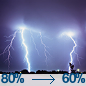
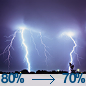
wire: 2026-10-16 RSA-1016-WIRE-124 + first sports/weather siblings

Changed region(s): [[0.7209, 0.8372, 0.814, 0.9767]]

diff --git a/wire.html b/wire.html
@@ -5,16 +5,16 @@
   <meta name="viewport" content="width=device-width, initial-scale=1.0">
   <script>(function(){try{var s=localStorage.getItem('usmc-theme')||localStorage.getItem('theme');if(s!=='light')document.documentElement.setAttribute('data-theme','dark');}catch(e){}})();</script>
   <title>RESOLUTE Wire — Curated News for Citizens | U.S.M.C. Ministries</title>
-  <meta name="description" content="National and technology reporting for Friday morning.">
+  <meta name="description" content="National and technology reporting for Friday evening.">
   <link rel="canonical" href="https://usmcmin.com/wire.html">
   <meta property="og:site_name" content="RESOLUTE Wire">
-  <meta property="og:title" content="USS Howard drilled its small-caliber guns in the Northern Pacific — RESOLUTE Wire">
-  <meta name="twitter:title" content="USS Howard drilled its small-caliber guns in the Northern Pacific — RESOLUTE Wire">
-  <meta property="og:description" content="National and technology reporting for Friday morning.">
+  <meta property="og:title" content="Theodore Roosevelt pulled into Yokosuka ahead of Keen Sword — RESOLUTE Wire">
+  <meta name="twitter:title" content="Theodore Roosevelt pulled into Yokosuka ahead of Keen Sword — RESOLUTE Wire">
+  <meta property="og:description" content="National and technology reporting for Friday evening.">
   <meta property="og:type" content="website">
   <meta property="og:url" content="https://usmcmin.com/wire.html">
-  <meta property="og:image" content="https://usmcmin.com/assets/og/wire-dvids-10024071-howard-m240-1200x630.jpg">
-  <meta name="twitter:image" content="https://usmcmin.com/assets/og/wire-dvids-10024071-howard-m240-1200x630.jpg">
+  <meta property="og:image" content="https://usmcmin.com/assets/og/wire-dvids-10023181-tr-yokosuka-1200x630.jpg">
+  <meta name="twitter:image" content="https://usmcmin.com/assets/og/wire-dvids-10023181-tr-yokosuka-1200x630.jpg">
   <meta property="og:image:width" content="1200">
   <meta property="og:image:height" content="630">
   <meta name="twitter:image:width" content="1200">
@@ -134,19 +134,19 @@
     </div>
     <header class="mast" id="top">
       <h1>RESOLUTE <em>Wire</em></h1>
-      <p class="dek">National and technology reporting for Friday morning.</p>
-      <div class="meta">Friday, October 16, 2026 · AM edition · Rush Sullivan</div>
+      <p class="dek">National and technology reporting for Friday evening.</p>
+      <div class="meta">Friday, October 16, 2026 · PM edition · Rush Sullivan</div>
     </header>
     <article class="hero">
       <div class="hero-media">
-        <img src="assets/wire/dvids-10024071-howard-m240-1000w.jpg" alt="">
-        <div class="hero-credit">Mass Communication Specialist 1st Class Matt Riggs · DVIDS 10024071 · Public domain · Chief Gunner&#x27;s Mate Dalton Daniel explains an M240 to the small-caliber action team on USS Howard (DDG 83) in the Northern Pacific, Oct. 14, 2026. Photo taken Oct. 13.</div>
+        <img src="assets/wire/dvids-10023181-tr-yokosuka-1000w.jpg" alt="">
+        <div class="hero-credit">Mass Communication Specialist 1st Class Hannah Fry · DVIDS 10023181 · Public domain · USS Theodore Roosevelt (CVN 71) pulls into Commander, Fleet Activities Yokosuka, Japan, Oct. 16, 2026. Photo taken Oct. 15.</div>
       </div>
       <div class="hero-body">
         <span class="chip">DVIDS</span>
-        <h2><a href="https://www.dvidshub.net/image/10024071/uss-howard-conducts-weapons-familiarization-training" target="_blank" rel="noopener">USS Howard drilled its small-caliber guns in the Northern Pacific</a></h2>
-        <p class="insight">A Navy photograph posted Friday morning shows Chief Gunner&#x27;s Mate Dalton Daniel explaining an M240 machine gun to the small-caliber action team on the starboard bridge wing of the Arleigh Burke-class guided-missile destroyer USS Howard (DDG 83). The caption says the ship was operating in the Northern Pacific on Oct. 14. Howard is forward-deployed with Destroyer Squadron 15, the Navy&#x27;s largest destroyer squadron and 7th Fleet&#x27;s principal surface force. The photograph was taken Oct. 13 by Mass Communication Specialist 1st Class Matt Riggs.</p>
-        <div class="src">DVIDS · <a href="https://www.dvidshub.net/image/10024071/uss-howard-conducts-weapons-familiarization-training" target="_blank" rel="noopener">Read source →</a></div>
+        <h2><a href="https://www.dvidshub.net/news/577082/uss-theodore-roosevelt-arrives-yokosuka-ahead-exercise-keen-sword" target="_blank" rel="noopener">Theodore Roosevelt pulled into Yokosuka ahead of Keen Sword</a></h2>
+        <p class="insight">The Navy said Friday that the aircraft carrier USS Theodore Roosevelt, flagship of Carrier Strike Group 9, arrived at Commander, Fleet Activities Yokosuka on Oct. 16 with the cruiser USS Chosin and the destroyer USS Decatur. The port call is for maintenance and resupply before Keen Sword, a routine biennial field exercise with Japan&#x27;s Self-Defense Forces. Capt. Will Mathis, the carrier&#x27;s commanding officer, said the visit lets the crew rest before operating alongside Japanese forces. Rear Adm. Marcos Jasso, the strike-group commander, called the U.S.-Japan alliance the cornerstone of peace and security in the region.</p>
+        <div class="src">DVIDS · <a href="https://www.dvidshub.net/news/577082/uss-theodore-roosevelt-arrives-yokosuka-ahead-exercise-keen-sword" target="_blank" rel="noopener">Read source →</a></div>
       </div>
     </article>
     <section class="rails" aria-label="Channel rails">
@@ -154,16 +154,16 @@
         <h3>Political</h3>
         <article class="item no-media">
           <div>
-            <h4><a href="https://www.heritage.org/china/report/time-bought-leverage-preserved-outcomes-the-trump-xi-summit-washington" target="_blank" rel="noopener">Heritage says the Trump-Xi summit bought time and kept leverage</a></h4>
-            <p>Friday&#x27;s Heritage report on the Sept. 23–25 Washington summit says a prior Heritage analysis expected tactical agreements, not a transformative breakthrough. The published outcomes, the report says, bought time and preserved leverage.</p>
+            <h4><a href="https://www.heritage.org/education/commentary/the-public-school-system-has-failed-american-kids-now-what" target="_blank" rel="noopener">Heritage says a public school can be a fight for survival, not a place to learn</a></h4>
+            <p>Friday&#x27;s Heritage commentary quotes Evan Barker, writing in the London Times on Sept. 29, on a Kansas City, Missouri, school two decades ago: every day was a fight for survival, not a place to get an education. During passing periods, she wrote, she hurried to avoid being jumped. The piece asks what comes after a system that failed those kids.</p>
             <div class="who">Heritage Foundation</div>
           </div>
           
         </article>
         <article class="item no-media">
           <div>
-            <h4><a href="https://www.heritage.org/markets-and-finance/commentary/when-union-leaders-are-not-working-their-workers" target="_blank" rel="noopener">A House hearing found union leaders spending dues on their own priorities</a></h4>
-            <p>Thursday&#x27;s Heritage commentary says a House hearing last month exposed eight years of industrial unions spending members&#x27; money on union leaders&#x27; personal priorities rather than on members. Political donations were the first finding. The piece says that record should change how Washington hears union leaders when they claim to speak for workers.</p>
+            <h4><a href="https://www.heritage.org/europe/commentary/frances-riots-echo-1968-macron-no-de-gaulle" target="_blank" rel="noopener">Heritage says France&#x27;s riots echo 1968, and Macron is no de Gaulle</a></h4>
+            <p>Friday&#x27;s Heritage commentary recalls March 29, 1968, when President Charles de Gaulle flew in secret to a French military base in Germany to learn whether the army would stay loyal as leftist protests crippled the country. The piece says today&#x27;s French riots have strong similarities, and that Emmanuel Macron is not that leader.</p>
             <div class="who">Heritage Foundation</div>
           </div>
           
@@ -173,16 +173,16 @@
         <h3>Tech / AI</h3>
         <article class="item no-media">
           <div>
-            <h4><a href="https://www.defensenews.com/industry/techwatch/2026/10/15/lockheed-invests-300m-in-texas-plant-to-feed-missile-surge/" target="_blank" rel="noopener">Lockheed is putting $300 million into its Grand Prairie missile plant</a></h4>
-            <p>Defense News reports that Lockheed Martin is investing $300 million to expand its Grand Prairie, Texas, plant, which supports every program in its Missiles and Fire Control business, including PAC-3 MSE, THAAD, the Precision Strike Missile, and the AIM-260. The company said Oct. 14 that the work will help the plant reach record production and feed final assembly in Camden, Arkansas, and Troy, Alabama. The expansion adds 100,000 square feet and converts 85,000 square feet of office space to factory floor, taking the plant past 735,000 square feet.</p>
+            <h4><a href="https://www.defensenews.com/industry/techwatch/2026/10/16/south-korean-lasers-down-three-drones-in-army-demo-hanwha-says/" target="_blank" rel="noopener">Hanwha says two lasers shot down three drones in a South Korean Army drill</a></h4>
+            <p>Defense News reports that Hanwha Systems said its stationary Cheongwang laser and a 30-kilowatt vehicle-mounted laser shot down all three target drones at the Army&#x27;s TIGER+ exercise on Oct. 14 in Yangpyeong. About 500 people attended, including Army Chief of Staff Gen. Kim Kyu-ha. Hanwha did not say which system hit which drone, what kinds of drones were used, or the range of either weapon. The company says each Cheongwang shot costs about $1.50.</p>
             <div class="who">Defense News</div>
           </div>
           
         </article>
         <article class="item no-media">
           <div>
-            <h4><a href="https://www.defensenews.com/land/2026/10/14/new-human-machine-interface-will-help-boxer-punch-above-its-weight/" target="_blank" rel="noopener">An Australian firm will let Boxer crews direct drones by voice</a></h4>
-            <p>Defense News reports that Sydney-based Breaker Industries is working with Rheinmetall Defence Australia on Avalon, a human-machine interface meant to let a Boxer commander direct unmanned systems in the air and on the ground. The firms signed a teaming agreement Oct. 6 at the Land Forces exhibition in Perth. Work continues for twelve months, with trials slated for mid-2027.</p>
+            <h4><a href="https://www.defensenews.com/industry/techwatch/2026/10/15/arizona-guard-first-to-field-gray-eagle-25m-drone/" target="_blank" rel="noopener">Arizona will be the first Guard state to field the Gray Eagle 25M</a></h4>
+            <p>Defense News reports that General Atomics said Monday the Arizona National Guard will get eight Gray Eagle 25M drones by September 2027 and four more by the end of 2029, the first Army National Guard company on the type. The company said Congress has funded three Guard units so far, and that the aircraft can support combatant commanders and defend against threats in the Western Hemisphere. The 25M first flew in December 2023. The photograph with the story is a company image, not an official still.</p>
             <div class="who">Defense News</div>
           </div>
           
@@ -192,9 +192,9 @@
         <h3>Culture</h3>
         <article class="item no-media">
           <div>
-            <h4><a href="https://firstthings.com/women-should-not-tolerate-porn/" target="_blank" rel="noopener">A dating standard worth keeping is a man who does not watch porn</a></h4>
-            <p>Friday&#x27;s First Things essay says some conservative young men call women&#x27;s dating standards unrealistic, and that viral checklists about height and income give that complaint a foothold. The writer draws a line: character standards still matter, and refusing a partner who watches pornography is one of them. Some conservatives, the essay says, treat that refusal as unrealistic and dismiss it as feminist.</p>
-            <div class="who">First Things</div>
+            <h4><a href="https://lawliberty.org/dostoevsky-and-the-mangione-mind/" target="_blank" rel="noopener">Law &amp; Liberty reads Mangione through Crime and Punishment</a></h4>
+            <p>Friday&#x27;s Law &amp; Liberty essay says Luigi Mangione, who recently admitted killing UnitedHealthcare chief Brian Thompson in 2024, reasoned the way Dostoevsky&#x27;s Raskolnikov did: that one murder could be a social good. The piece quotes a diary line in which Mangione wrote he felt no doubt the killing was justified. It argues that no theory makes murder moral, and that Americans should not decide which lives are expendable for a world they want to build.</p>
+            <div class="who">Law &amp; Liberty</div>
           </div>
           
         </article>
@@ -210,7 +210,7 @@
     </section>
     <section class="watch">
       <h3>Watch</h3>
-      <ul><li><a href="https://www.defensenews.com/news/your-military/2026/10/14/what-is-the-us-army-doing-in-panama-a-bit-of-everything/" target="_blank" rel="noopener">U.S. soldiers are back in the Panamanian jungle, more than 20 years after the bases changed hands</a> </li></ul>
+      <ul><li><a href="https://www.dvidshub.net/news/575920/phantom-knights-case-colors-8th-psychological-operations-group-airborne-inactivates-after-15-years-historic-service" target="_blank" rel="noopener">The Army cased the colors of the 8th Psychological Operations Group at Fort Bragg</a> </li></ul>
     </section>
     <section class="dock">
       <a href="sports.html"><div class="k">Texas desk</div><div class="t">Sports</div><div class="d">Texans, Astros, Rockets — character and the score.</div></a>

diff --git a/weather.html b/weather.html
@@ -131,7 +131,7 @@
     <header class="mast" id="top">
       <h1>RESOLUTE <em>Weather</em></h1>
       <p class="dek">Fredericksburg, Virginia — National Weather Service. Readiness, not climate talk.</p>
-      <div class="meta">Friday, October 16, 2026 · AM edition</div>
+      <div class="meta">Friday, October 16, 2026 · PM edition</div>
     </header>
     <article class="hero">
       <div class="hero-media">
@@ -140,16 +140,16 @@
       </div>
       <div class="hero-body">
         <span class="chip">NWS / Readiness</span>
-        <h2>No active NWS alerts on the Fredericksburg point. Mostly sunny today, high near 85, then storms tonight.</h2>
-        <p class="insight">NWS lists no active alert for the Fredericksburg forecast point. Today is patchy fog early, then mostly sunny, a high near 85, southwest wind 6 to 12 mph. Tonight is showers and thunderstorms, an 80 percent chance, a low around 50. Saturday is a chance of showers early, then mostly sunny, a high near 56, north wind gusting to 28 mph. Saturday night&#x27;s low is around 38.</p>
+        <h2>Severe Thunderstorm Watch is up for Fredericksburg until 8 p.m. Storms tonight could be severe.</h2>
+        <p class="insight">NWS Baltimore/Washington has Severe Thunderstorm Watch 686 in effect for the City of Fredericksburg until 8 p.m. EDT. This afternoon is mostly sunny, a high near 83, southwest wind around 12 mph. Tonight is showers and thunderstorms, an 80 percent chance, and some storms could be severe, with a low around 48. Saturday is a chance of showers before 11 a.m., then partly sunny, a high near 55, north wind gusting to 28 mph. Saturday night&#x27;s low is around 37.</p>
         <div class="src">Alerts: No watch or warning is up. · <a href="https://forecast.weather.gov/MapClick.php?lat=38.3032&amp;lon=-77.4605" target="_blank" rel="noopener">NWS forecast →</a></div>
-        <ul class="actions"><li>No active watches or warnings on the city point</li><li>Mostly sunny today, high near 85; storms likely tonight, 80 percent chance</li><li>Saturday cooler near 56 with a north wind; Saturday night near 38</li></ul>
+        <ul class="actions"><li>Severe Thunderstorm Watch until 8 p.m. EDT; the city is in the watch area</li><li>Storms likely tonight, 80 percent chance; some could be severe</li><li>Saturday cooler near 55 with a north wind; Saturday night near 37</li></ul>
       </div>
     </article>
     <section class="watch">
       <h3>Forecast</h3>
       
-      <div class="period"><img class="period-icon" src="assets/weather/nws-today-day-fog-sct.png" alt=""><div><strong>Today</strong><p class="insight">Patchy fog and a slight chance of rain showers before 10am. Mostly sunny, with a high near 85. Southwest wind 6 to 12 mph, with gusts as high as 18 mph. Chance of precipitation is 20%. New rainfall amounts less than a tenth of an inch possible.</p></div></div><div class="period"><img class="period-icon" src="assets/weather/nws-tonight-night-tsra.png" alt=""><div><strong>Tonight</strong><p class="insight">Showers and thunderstorms. Mostly cloudy, with a low around 50. Northwest wind 7 to 12 mph, with gusts as high as 20 mph. Chance of precipitation is 80%. New rainfall amounts between a tenth and quarter of an inch possible.</p></div></div><div class="period"><img class="period-icon" src="assets/weather/nws-saturday-day-rain-sct.png" alt=""><div><strong>Saturday</strong><p class="insight">A chance of rain showers before 9am. Mostly sunny, with a high near 56. North wind 13 to 17 mph, with gusts as high as 28 mph. Chance of precipitation is 50%. New rainfall amounts less than a tenth of an inch possible.</p></div></div><div class="period"><img class="period-icon" src="assets/weather/nws-saturday-night-night-few.png" alt=""><div><strong>Saturday Night</strong><p class="insight">Mostly clear, with a low around 38. North wind 6 to 14 mph, with gusts as high as 23 mph.</p></div></div><div class="period"><img class="period-icon" src="assets/weather/nws-sunday-day-few.png" alt=""><div><strong>Sunday</strong><p class="insight">Sunny, with a high near 57. Northeast wind around 7 mph.</p></div></div><div class="period"><img class="period-icon" src="assets/weather/nws-sunday-night-night-few.png" alt=""><div><strong>Sunday Night</strong><p class="insight">Mostly clear, with a low around 40.</p></div></div>
+      <div class="period"><img class="period-icon" src="assets/weather/nws-this-afternoon-day-sct.png" alt=""><div><strong>This Afternoon</strong><p class="insight">Mostly sunny, with a high near 83. Southwest wind around 12 mph, with gusts as high as 18 mph. New rainfall amounts less than a tenth of an inch possible.</p></div></div><div class="period"><img class="period-icon" src="assets/weather/nws-tonight-night-tsra.png" alt=""><div><strong>Tonight</strong><p class="insight">Showers and thunderstorms. Some of the storms could be severe. Mostly cloudy. Low around 48, with temperatures rising to around 54 overnight. Northwest wind 7 to 12 mph, with gusts as high as 20 mph. Chance of precipitation is 80%. New rainfall amounts between a tenth and quarter of an inch possible.</p></div></div><div class="period"><img class="period-icon" src="assets/weather/nws-saturday-day-rain-bkn.png" alt=""><div><strong>Saturday</strong><p class="insight">A chance of rain showers before 11am. Partly sunny, with a high near 55. North wind 13 to 17 mph, with gusts as high as 28 mph. Chance of precipitation is 70%. New rainfall amounts less than a tenth of an inch possible.</p></div></div><div class="period"><img class="period-icon" src="assets/weather/nws-saturday-night-night-few.png" alt=""><div><strong>Saturday Night</strong><p class="insight">Mostly clear, with a low around 37. North wind 6 to 14 mph, with gusts as high as 23 mph.</p></div></div><div class="period"><img class="period-icon" src="assets/weather/nws-sunday-day-few.png" alt=""><div><strong>Sunday</strong><p class="insight">Sunny, with a high near 57. North wind around 10 mph, with gusts as high as 18 mph.</p></div></div><div class="period"><img class="period-icon" src="assets/weather/nws-sunday-night-night-sct.png" alt=""><div><strong>Sunday Night</strong><p class="insight">Partly cloudy, with a low around 41.</p></div></div>
       
     </section>
     <section class="dock">

diff --git a/sports.html b/sports.html
@@ -131,7 +131,7 @@
     <header class="mast" id="top">
       <h1>RESOLUTE <em>Sports</em></h1>
       <p class="dek">Texas desk — Texans, Astros, Rockets. Character and the score, not celebrity.</p>
-      <div class="meta">Friday, October 16, 2026 · AM edition</div>
+      <div class="meta">Friday, October 16, 2026 · PM edition</div>
     </header>
     <article class="hero">
       <div class="hero-media">
@@ -150,15 +150,15 @@
         <article class="item">
           <div>
             <h4><a href="https://www.houstontexans.com/schedule/" target="_blank" rel="noopener">Texans play Jacksonville in London on Sunday, 8:30 a.m. Central</a></h4>
-            <p>The Houston Texans schedule lists Sunday, Oct. 18, as an away game against the Jacksonville Jaguars at Wembley Stadium, kickoff 8:30 a.m. Central, on NFL Network. No score is printed here because Sunday has not been played.</p>
+            <p>The Houston Texans schedule lists Sunday, Oct. 18, as an away game against the Jacksonville Jaguars at Wembley Stadium, kickoff 8:30 a.m. Central, on NFL Network, as part of the NFL International Series. No score is printed here because Sunday has not been played.</p>
             <div class="who">Houston Texans</div>
           </div>
           <div class="thumb"><img src="assets/sports/nrg-reliant-interior.jpg" alt=""></div>
         </article>
         <article class="item">
           <div>
-            <h4><a href="https://www.mlb.com/news/2026-mlb-playoff-and-world-series-schedule" target="_blank" rel="noopener">Astros are out; Cleveland leads Tampa Bay 2-1 heading into Game 4 tonight</a></h4>
-            <p>MLB.com&#x27;s postseason schedule lists the Brewers, who swept Los Angeles, and the Rays and Guardians in the League Championship Series. Houston is not on that list. Thursday&#x27;s line reads Cleveland 3, Tampa Bay 2, Cleveland leads 2-1. Game 4, Tampa Bay at Cleveland, is Friday at 8 p.m. Eastern on TBS, truTV, HBO Max, and UniMas. Milwaukee won the National League series 4-0.</p>
+            <h4><a href="https://www.mlb.com/news/2026-mlb-playoff-and-world-series-schedule" target="_blank" rel="noopener">Astros are out; Tampa Bay is at Cleveland tonight in Game 4</a></h4>
+            <p>MLB.com&#x27;s postseason schedule lists Friday, Oct. 16, as Tampa Bay at Cleveland, Game 4, at 8 p.m. Eastern on TBS, truTV, HBO Max, and UniMas. Saturday&#x27;s Game 5 is the same time and networks. The World Series schedule lists the Brewers as the National League side, with Game 1 on Friday, Oct. 23. Houston is not on the League Championship Series list. No series score is printed here because the Friday page did not carry one.</p>
             <div class="who">MLB.com</div>
           </div>
           <div class="thumb"><img src="assets/sports/daikin-minute-maid-2010.jpg" alt=""></div>
@@ -166,7 +166,7 @@
         <article class="item">
           <div>
             <h4><a href="https://www.nba.com/rockets/news/rockets-announce-schedule-for-2026-27-nba-season" target="_blank" rel="noopener">Rockets open at home against Dallas on Oct. 21, 7:30 p.m.</a></h4>
-            <p>The Rockets&#x27; schedule announcement lists Opening Night Presented by Toyota against Dallas on Oct. 21, with standard home tipoffs at 7:30 p.m. The same release says the club played preseason games against Dallas in Macao on Oct. 9 and Oct. 11. No regular-season score is printed here because the opener has not been played.</p>
+            <p>The Rockets&#x27; schedule announcement lists Opening Night against Dallas on Oct. 21, then San Antonio at Moody Center in Austin on Oct. 23. Standard home tipoff has moved from 7 p.m. to 7:30 p.m. The same release says Houston closed the preseason at home against Oklahoma City on Oct. 15. No regular-season score is printed here because the opener has not been played.</p>
             <div class="who">Houston Rockets</div>
           </div>
           <div class="thumb"><img src="assets/sports/toyota-center-interior.jpg" alt=""></div>
